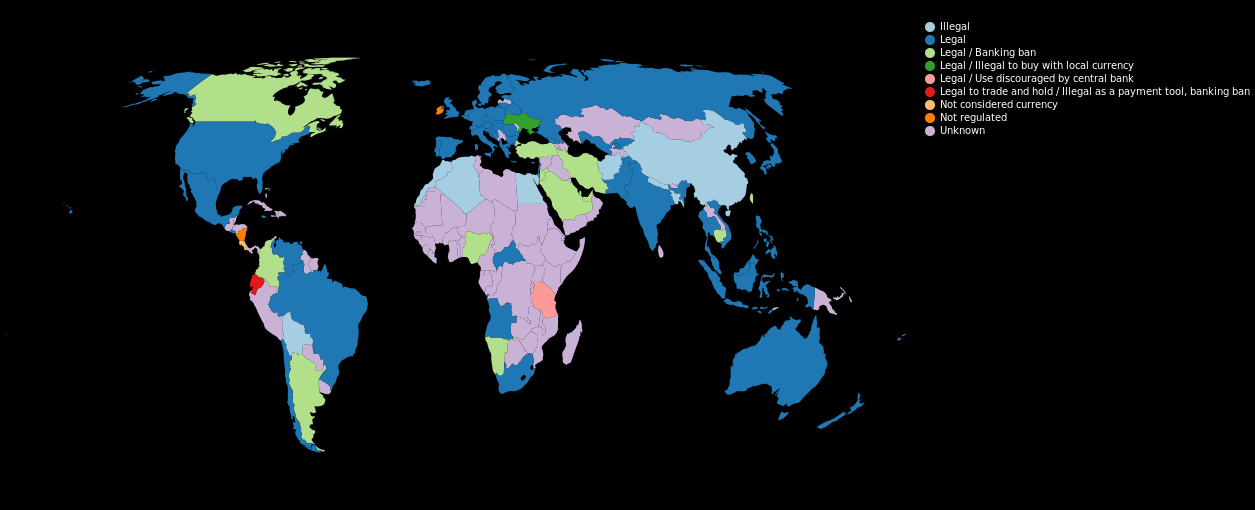
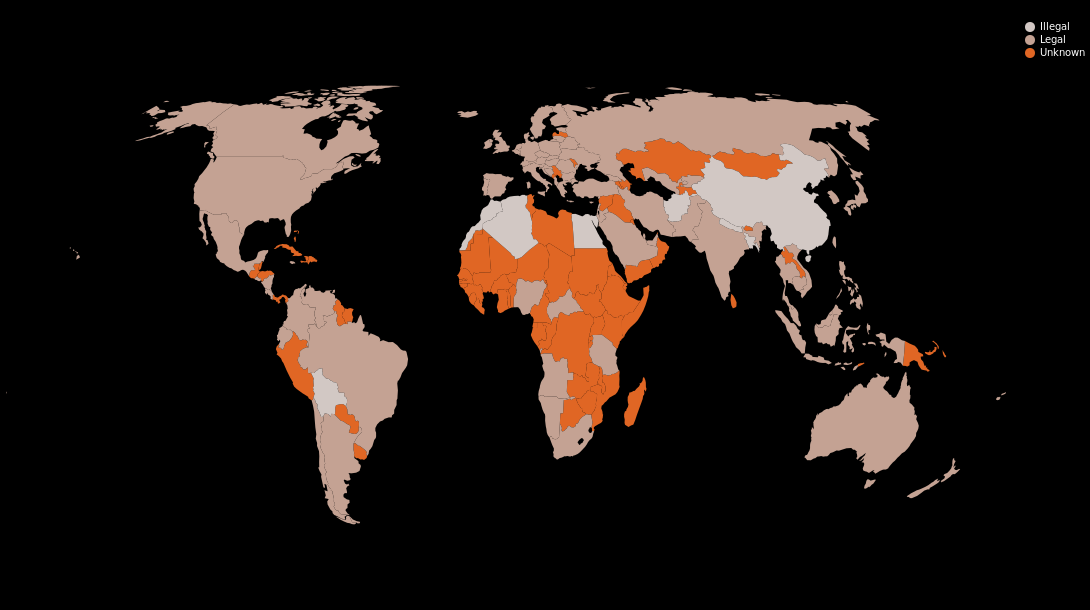
New map & country search

diff --git a/templates/get_info.html b/templates/get_info.html
@@ -6,23 +6,30 @@
     <title>WhereCrypto</title>
     {% load static %}
     <link rel= "stylesheet" type="text/css" href="{% static 'style/style.css' %}">
-    <script src="https://cdn.jsdelivr.net/npm//vega@3.2"></script>
-    <script src="https://cdn.jsdelivr.net/npm//vega-lite@2.4.1"></script>
-    <script src="https://cdn.jsdelivr.net/npm//vega-embed@3.0"></script>
+<script src="https://cdn.jsdelivr.net/npm//vega@3.2"></script>
+<script src="https://cdn.jsdelivr.net/npm//vega-lite@2.4.1"></script>
+<script src="https://cdn.jsdelivr.net/npm//vega-embed@3.0"></script>
 </head>
 <body>
+
     <header class="showcase">
     <div class="showcase-top">
         <img src="{% static 'images/logo.png' %}" alt="WhereCrypto Logo" class="logo">
-        <a href="index.html">Home</a>
+        <a href="{% url 'home_page_return' %}">Home</a>
     </div>
         <div class="showcase-content">
-            <h3></h3>
-            {% load django_altair %}
-            <div class="information">
-                {% render_chart country %}
-{#                <img src="{% static 'images/country.png' %}" alt="">#}
+            <h3>{{ country }}</h3>
+            <div class="information_map">
+                <img src="../static/images/countries/{{ chart }}" alt="" align="left" width="450" height="400">
             </div>
+            <div class="information_text">
+                <h4>Current Legacy status</h4>
+                <p>{{ legality }}</p>
+                <h4>Predicted status as national currency</h4>
+            </div>
+            {% if country == "Ukraine" %}
+
+            {% endif %}
         </div>
     </header>
     <footer class="footer">

diff --git a/templates/index.html b/templates/index.html
@@ -11,7 +11,7 @@
     <header class="showcase">
     <div class="showcase-top">
         <img src="{% static 'images/logo.png' %}" alt="WhereCrypto Logo" class="logo">
-        <a href="index.html">Home</a>
+        <a href="{% url 'home_page_return' %}">Home</a>
     </div>
         <div class="showcase-content">
             <h1>There are countries of crypto-future</h1>

diff --git a/templates/search.html b/templates/search.html
@@ -11,7 +11,7 @@
     <header class="showcase">
     <div class="showcase-top">
         <img src="{% static 'images/logo.png' %}" alt="WhereCrypto Logo" class="logo">
-        <a href="index.html">Home</a>
+        <a href="{% url 'home_page_return' %}">Home</a>
     </div>
         <div class="showcase-content">
             <h3>Choose from these countries</h3>

diff --git a/data/crypto_map.py b/data/crypto_map.py
@@ -4,6 +4,8 @@ import pandas as pd
 import pycountry
 import altair as alt
 import geopandas
+
+
 # from altair_saver import save
 # import lxml
 
@@ -82,13 +84,13 @@ for i in range(len(country_list)):
     elif country_list[i] == "Taiwan":
         country_list[i] = "Taiwan, Province of China"
     elif country_list[i] == "Vietnam":
-        country_list[i] =  "Viet Nam"
+        country_list[i] = "Viet Nam"
     elif country_list[i] == "Brunei":
-        country_list[i] =  "Brunei Darussalam"
+        country_list[i] = "Brunei Darussalam"
     elif country_list[i] == "Czech Republic":
-        country_list[i] =  "Czechia"
+        country_list[i] = "Czechia"
     elif country_list[i] == "Russia":
-        country_list[i] =  "Russian Federation"
+        country_list[i] = "Russian Federation"
 
 misssed_countires = []
 misssed_countires = list(set(all_countries) - set(country_list))
@@ -97,30 +99,59 @@ status_by_country['Country or territory'] = country_list
 unknown_countires = {"Country or territory": misssed_countires,
                      "Legality": ["Unknown" for i in range(len(misssed_countires))]}
 unknown_countires['CODE'] = alpha3code(unknown_countires["Country or territory"])
-status_by_country['CODE']=alpha3code(status_by_country["Country or territory"])
+status_by_country['CODE'] = alpha3code(status_by_country["Country or territory"])
 
 df2 = pd.DataFrame.from_dict(unknown_countires)
 status_by_country = pd.concat([status_by_country, df2], axis=0, ignore_index=True)
 
+status_by_country.iloc[69][1] = "Illegal"
+status_by_country.iloc[66][1] = "Illegal"
+
+# status_by_country['Legality'].replace(['Legal / Banking ban',
+#        'Legal / Use discouraged by central bank',
+#        'Not considered currency', 'Not regulated',
+#        'Legal to trade and hold / Illegal as a payment tool, banking ban',
+#        'Ban on mining', 'Legal / Illegal to buy with local currency'],
+#                                  "Legal", inplace=True)
+
 
 world = geopandas.read_file(geopandas.datasets.get_path('naturalearth_lowres'))
-world.columns=['pop_est', 'continent', 'name', 'CODE', 'gdp_md_est', 'geometry']
+world.columns = ['pop_est', 'continent', 'name', 'CODE', 'gdp_md_est', 'geometry']
 merge = pd.merge(world, status_by_country, on='CODE')
 
-location=pd.read_csv('https://raw.githubusercontent.com/melanieshi0120/COVID-19_global_time_series_panel_data/master/data/countries_latitude_longitude.csv')
+location = pd.read_csv(
+    'https://raw.githubusercontent.com/melanieshi0120/COVID-19_global_time_series_panel_data/master/data/countries_latitude_longitude.csv')
 merge = merge.merge(location, on='name').sort_values(by='Legality', ascending=False).reset_index()
 
 
+alt.renderers.enable('altair_saver', fmts=['vega-lite', 'png'])
 
-
-# alt.renderers.enable('altair_saver', fmts=['vega-lite', 'png'])
 # world_map = alt.Chart(merge).mark_geoshape(
 # ).encode(
-#     color = alt.Color('Legality', scale=alt.Scale(scheme='paired'))
+#     color = alt.Color('Legality', scale=alt.Scale(scheme='lightgreyred'))
 # ).properties(
-#     width=900,
-#     height=500
+#     width=1000,
+#     height=600
 # ).configure_legend(labelLimit=0, labelColor='white').configure_title(fontSize=14).configure(background='black')
-# world_map = world_map.configure_legend(labelLimit=0, labelColor='white')
 #
+# world_map = world_map.configure_legend(labelLimit=0, labelColor='white')
 # world_map.save('../static/images/world_map.png')
+
+
+# def visualize_all_maps():
+#     countries = pycountry.countries
+#     for c in countries:
+#         alt.renderers.enable('altair_saver', fmts=['vega-lite', 'png'])
+#         chart = alt.Chart(merge[(merge["Country or territory"] == c.name)]).mark_geoshape().encode(
+#             color=alt.Color('Legality', scale=alt.Scale(scheme='accent'))
+#         ).properties(
+#             width=900,
+#             height=500
+#         ).configure_legend(labelLimit=0)
+#         chart = chart.configure(background='black')
+#         chart = chart.configure_legend(labelLimit=0, labelColor='white')
+#         img_filename = '../static/images/countries/' + c.name + '.png'
+#         chart.save(img_filename)
+#
+#
+# visualize_all_maps()

diff --git a/country_search/views.py b/country_search/views.py
@@ -4,50 +4,30 @@ import sqlite3
 import altair as alt
 import pandas as pd
 import pycountry
-from django.shortcuts import render
+from django.http import JsonResponse
+from django.shortcuts import render, redirect
 from data.countries import all_countries_code_name, all_countries_off_name, all_countries_name, countries_dfrm
 from data.crypto_map import merge
+import altair_saver
 
 conn = sqlite3.connect('../database.db')
 c = conn.cursor()
 
 
-# def create_map(country):
-#     alt.renderers.enable('altair_saver', fmts=['vega-lite', 'png'])
-#     chart = alt.Chart(merge[(merge["Country or territory"] == country)]).mark_geoshape().encode(
-#         color=alt.Color('Legality', scale=alt.Scale(scheme='accent'))
-#     ).properties(
-#         width=900,
-#         height=500
-#     ).configure_legend(labelLimit=0)
-#     chart = chart.configure(background='black')
-#     chart = chart.configure_legend(labelLimit=0, labelColor='white')
-#     current = os.getcwd()
-#     chart.save(current + '/country.png')
-
 def home(request):
     return render(request, 'index.html')
+
+
+def home_page_return(request):
+    return redirect('/')
 
 
 def get_info(request):
     country = request.GET.get('selected_country', 0)
     country = country[10:]
-    # removing_files = glob.glob('../static/images/*.png')
-    # for i in removing_files:
-    #     if i == "country.png":
-    #         os.remove(i)
-    #     alt.renderers.enable('altair_saver', fmts=['vega-lite', 'png'])
-    chart = alt.Chart(merge[(merge["Country or territory"] == country)]).mark_geoshape().encode(
-            color=alt.Color('Legality', scale=alt.Scale(scheme='accent'))
-        ).properties(
-            width=900,
-            height=500
-        ).configure_legend(labelLimit=0)
-    chart = chart.configure(background='black')
-    chart = chart.configure_legend(labelLimit=0, labelColor='white')
-
-    return render(request, 'get_info.html', {'country': chart.interactive()})
-
+    chart = str(country) + '.png'
+    legality = str(merge[(merge["Country or territory"] == country)].Legality.values[0])
+    return render(request, 'get_info.html', {'chart': chart, 'legality': legality, 'country': country})
 
 
 def search(request):

diff --git a/country_search/urls.py b/country_search/urls.py
@@ -1,10 +1,11 @@
 from django.contrib import admin
 from django.urls import path
-from .views import home, search, get_info
+from .views import home, search, get_info, home_page_return
 
 
 urlpatterns = [
     path('', home, name='home'),
     path('/search', search, name='search'),
-    path('/get_info', get_info, name='get_info')
+    path('/get_info', get_info, name='get_info'),
+    path(r'^.+$', home_page_return, name='home_page_return'),
 ]

diff --git a/WhereCrypto/settings.py b/WhereCrypto/settings.py
@@ -12,7 +12,6 @@ https://docs.djangoproject.com/en/4.1/ref/settings/
 
 from pathlib import Path
 import os
-
 # Build paths inside the project like this: BASE_DIR / 'subdir'.
 BASE_DIR = Path(__file__).resolve().parent.parent
 
@@ -38,6 +37,8 @@ INSTALLED_APPS = [
     'django.contrib.sessions',
     'django.contrib.messages',
     'django.contrib.staticfiles',
+    'django_altair',
+    'country_search'
 ]
 
 MIDDLEWARE = [

diff --git a/data/countries.py b/data/countries.py
@@ -2,6 +2,7 @@ import pycountry
 import pandas as pd
 import sqlite3
 
+
 cnts = pycountry.countries
 all_countries_name = []
 all_countries_off_name = []
